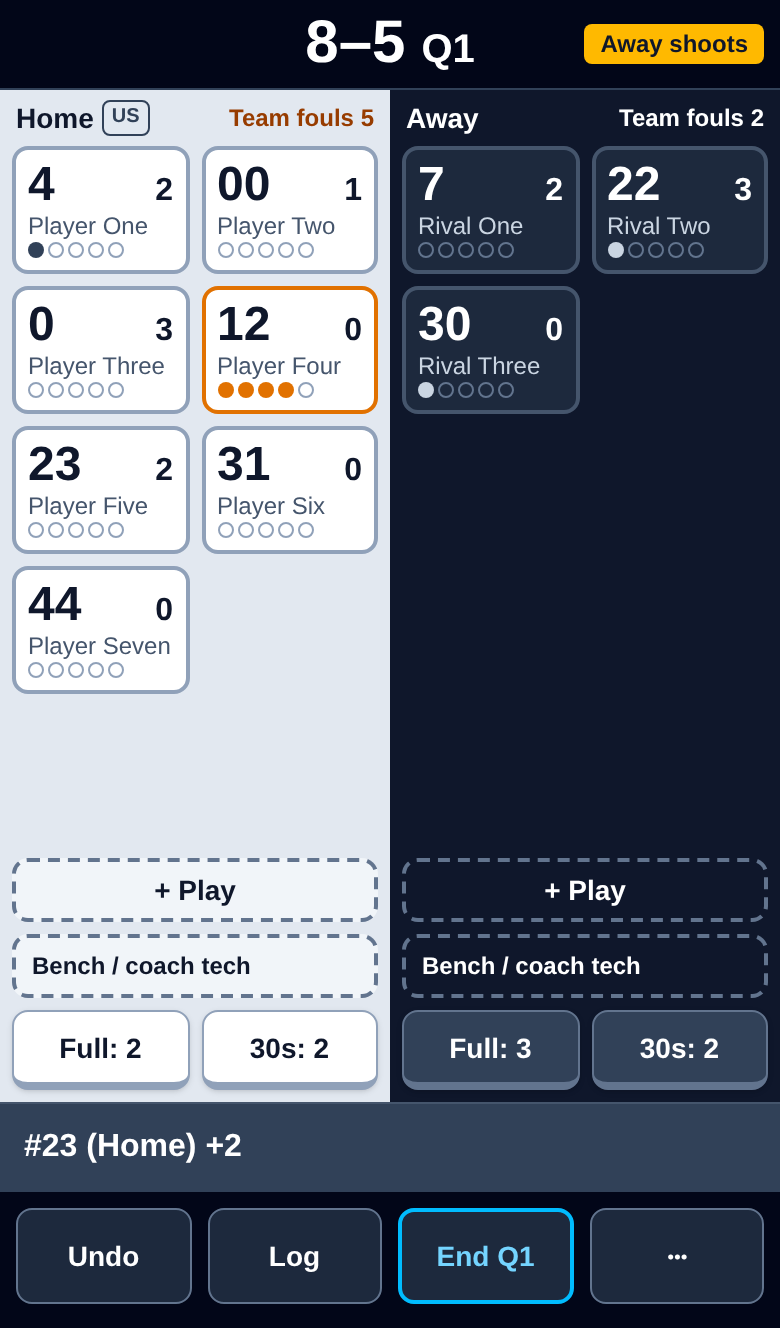
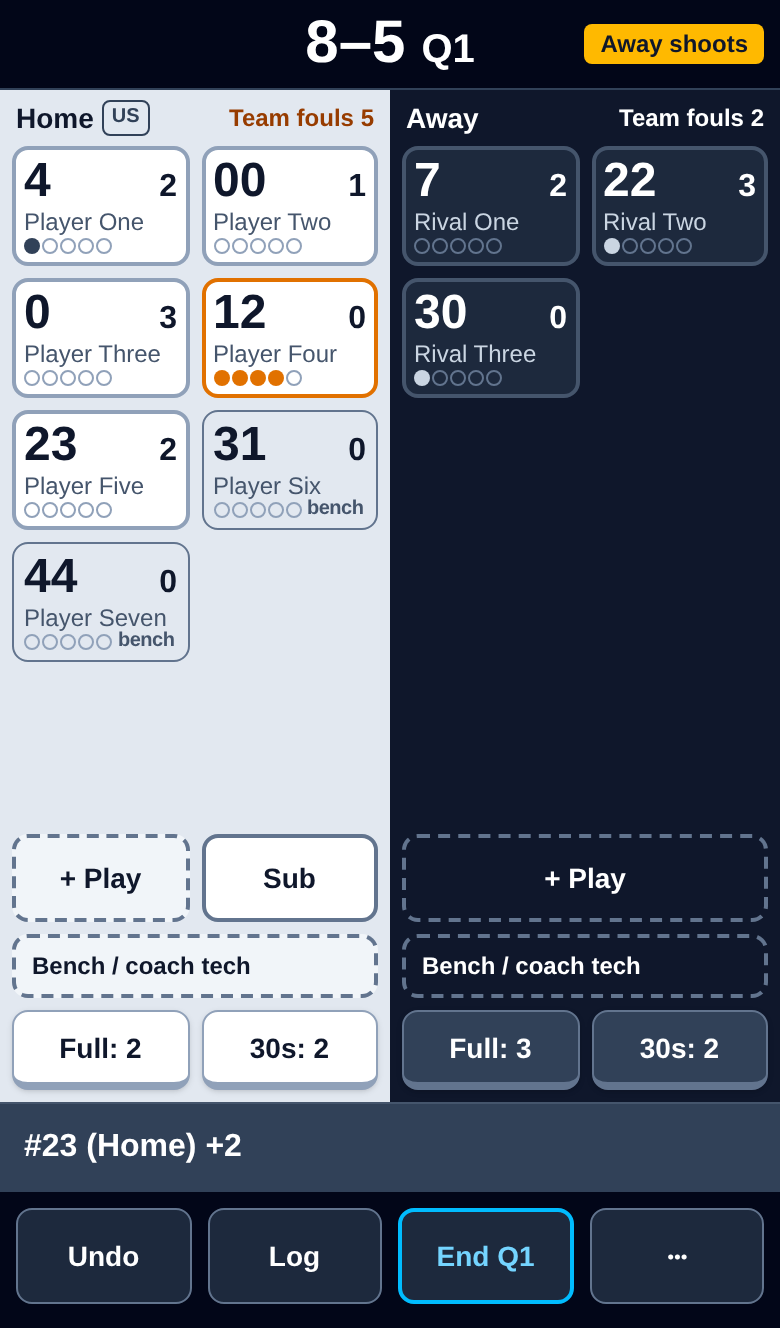
How-to: a Subs section with a Who went out? screenshot; the reading-the-screen shot shows the bench

diff --git a/src/ui/howto-content.ts b/src/ui/howto-content.ts
@@ -43,6 +43,15 @@ export const HOWTO_SECTIONS: HowtoSection[] = [
     ],
   },
   {
+    id: 'subs',
+    title: 'Subs',
+    body: [
+      "Solid cards are the five on the floor; the bench is ghosted, with a gray bench tag. The first five on the roster start, and the Sub button beside + Play reads Starters until that team's first play if you want to change them. Subbing is optional: a bench player who makes a play goes on the floor by herself, and nothing waits on you.",
+      "When #22 checks in at the table, tap #22, then #22 checks in at the foot of her sheet, then who went out. The Sub button opens the same sheet: Who went out? when more than five are on (likely marks a guess, never acted on), Who came in? when fewer, as after a foul-out, and Who's on the floor? for a line change, ended with Done. Subs change no score or count, and Undo takes one back.",
+    ],
+    image: { src: '/howto/subs.png', alt: 'Who went out? for Home after #44 scored from the bench: six on the floor, #44 marked just in and #0, whose last play is the oldest, marked likely; Cancel below.' },
+  },
+  {
     id: 'timeouts',
     title: 'Timeouts and bench techs',
     body: [
@@ -88,7 +97,7 @@ export const HOWTO_SECTIONS: HowtoSection[] = [
       "Each half's header shows that team's fouls for the quarter, amber from 4 (in overtime the count includes Q4). In the bonus, a badge in the strip at the top names the team that shoots, for example Home shoots, over its half. Foul dots turn amber at 4 and red at OUT, and an out player's card is grayed: tapping it asks first.",
       `Running score, under ⋯, shows your team only. ${MARK_LEGEND}`,
     ],
-    image: { src: '/howto/reading-the-screen.png', alt: 'The live screen in Q1 with both rosters: Home, marked US, on the left with team fouls 5 and #12 at four amber foul dots; Away on the right with its own numbered cards, points and fouls; Away shoots; under each half, + Play, the Bench card and the timeout buttons.' },
+    image: { src: '/howto/reading-the-screen.png', alt: 'The live screen in Q1 with both rosters: Home, marked US, on the left with team fouls 5, #12 at four amber foul dots, and #31 and #44 ghosted on the bench; Away on the right with its own numbered cards, points and fouls; Away shoots; under each half, + Play beside the Sub button, the Bench card and the timeout buttons.' },
   },
   {
     id: 'wrong',

diff --git a/src/ui/howto-content.test.ts b/src/ui/howto-content.test.ts
@@ -10,9 +10,9 @@ const byTitle = (t: string) => HOWTO_SECTIONS.find((s) => s.title === t)!;
 const text = (t: string) => byTitle(t).body.join(' ');
 
 describe('how-to content', () => {
-  it('has the twelve sections in order', () =>
+  it('has the thirteen sections in order', () =>
     expect(HOWTO_SECTIONS.map((s) => s.title)).toEqual([
-      'What this is', 'Before tip-off', 'Record a play', 'Free throws', 'A player with no card',
+      'What this is', 'Before tip-off', 'Record a play', 'Free throws', 'A player with no card', 'Subs',
       'Timeouts and bench techs', 'Mistakes', 'End of quarter', 'Overtime and end of game', 'Export',
       'Reading the screen', "If something's wrong",
     ]));
@@ -33,6 +33,16 @@ describe('how-to content', () => {
   it('explains + Play and Whose number?', () => {
     const t = text('A player with no card');
     for (const words of ['+ Play', 'Whose number?', 'No number', 'Stop asking this game', 'joins that team']) expect(t).toContain(words);
+  });
+  it('covers the floor and bench, Starters, the sub row and the three questions', () => {
+    const t = text('Subs');
+    expect(t).toMatch(/Solid cards are the five on the floor; the bench is ghosted/);
+    expect(t).toMatch(/Starters/);
+    expect(t).toMatch(/Subbing is optional: a bench player who makes a play goes on the floor/);
+    expect(t).toMatch(/tap #22, then #22 checks in/);
+    for (const q of ['Who went out?', 'Who came in?', "Who's on the floor?"]) expect(t).toContain(q);
+    expect(t).toMatch(/likely marks a guess/);
+    expect(t).toMatch(/Subs change no score or count/);
   });
   it('makes both rosters optional and keeps only ours', () => {
     expect(text('Before tip-off')).toMatch(/their roster.*Both are optional/);
@@ -73,8 +83,9 @@ describe('how-to content', () => {
     expect(text("If something's wrong")).toMatch(/Not saving/);
     expect(text("If something's wrong")).toMatch(/reload keeps your plays but clears Undo/);
   });
-  it('shows the three screenshots the release script writes, and no others', () => {
+  it('shows the four screenshots the release script writes, and no others', () => {
     const IMAGES: Record<string, string> = {
+      Subs: '/howto/subs.png',
       'Reading the screen': '/howto/reading-the-screen.png',
       Mistakes: '/howto/mistakes.png',
       'End of quarter': '/howto/end-of-quarter.png',

diff --git a/scripts/howto/shots.spec.ts b/scripts/howto/shots.spec.ts
@@ -2,8 +2,8 @@ import { expect, test } from '@playwright/test';
 import { OPPONENT, TEAM, ui } from '../../e2e/fixture';
 
 /*
- * `pnpm howto:shots`, run by `pnpm release`: the three How-to screenshots, from the full-game
- * fixture's invented roster. It writes only these three files, so an image the owner made by
+ * `pnpm howto:shots`, run by `pnpm release`: the four How-to screenshots, from the full-game
+ * fixture's invented roster. It writes only these four files, so an image the owner made by
  * hand (under a new filename, referenced from src/ui/howto-content.ts) is never overwritten.
  */
 
@@ -65,4 +65,13 @@ test('How-to screenshots', async ({ page }) => {
   await app.checkQuarter('Q1', 8, 5);
   await app.expectMatches();
   await shot('end-of-quarter');
+  await app.saveCheck();
+
+  // Subs: #44 scores from the bench, so six are on, and the Sub button asks who went out.
+  await app.score('Player Seven', '+2');
+  await app.subButton('Home').click();
+  await expect(dialog()).toHaveAccessibleName('Who went out?');
+  await expect(dialog().getByText('likely', { exact: true })).toBeVisible();
+  await expect(dialog().getByText('just in', { exact: true })).toBeVisible();
+  await shot('subs');
 });

diff --git a/CLAUDE.md b/CLAUDE.md
@@ -22,10 +22,10 @@ Redefined 2026-11-16. The old 1.0 ("trusted for the owner's own team") was met a
 
 - [x] Opponent team stats on the live screen: their fouls (and our bonus), their timeouts, their
       points by player number. (0.8)
-- [ ] Active lineup with substitutions (0.9): the five on the floor sit at the top of their half,
+- [x] Active lineup with substitutions: the five on the floor sit at the top of their half,
       the bench below; a sub moves players between floor and bench, and nothing is ever hidden, so
       subbing is optional. A fouled-out player prompts a sub. Reworded 2026-11-16 (owner): the
-      old wording, "shows only the players on the floor", is dropped.
+      old wording, "shows only the players on the floor", is dropped. (0.9)
 - [x] Both teams in the Book CSV, and the quarter check compares both scores. (0.8)
 - [ ] The How-to covers both-team scoring (done in 0.8), and `/ux-audit` finishes a scripted
       both-team game with nothing blocking (not yet run; the scenario was rewritten in 0.8).
@@ -63,7 +63,7 @@ runs as `/ux-audit`.
 - `pnpm howto:shots`: refreshes the How-to screenshots, `public/howto/*.png`, from the
   full-game fixture. `pnpm release` runs it and commits the images, so they stay current.
   An image made by hand gets a new filename and is referenced from `src/ui/howto-content.ts`;
-  the script writes only its own three filenames, so a release never overwrites it. A
+  the script writes only its own four filenames, so a release never overwrites it. A
   hand-made image also needs the screenshot map in `src/ui/howto-content.test.ts` updated.
 
 ## Style
